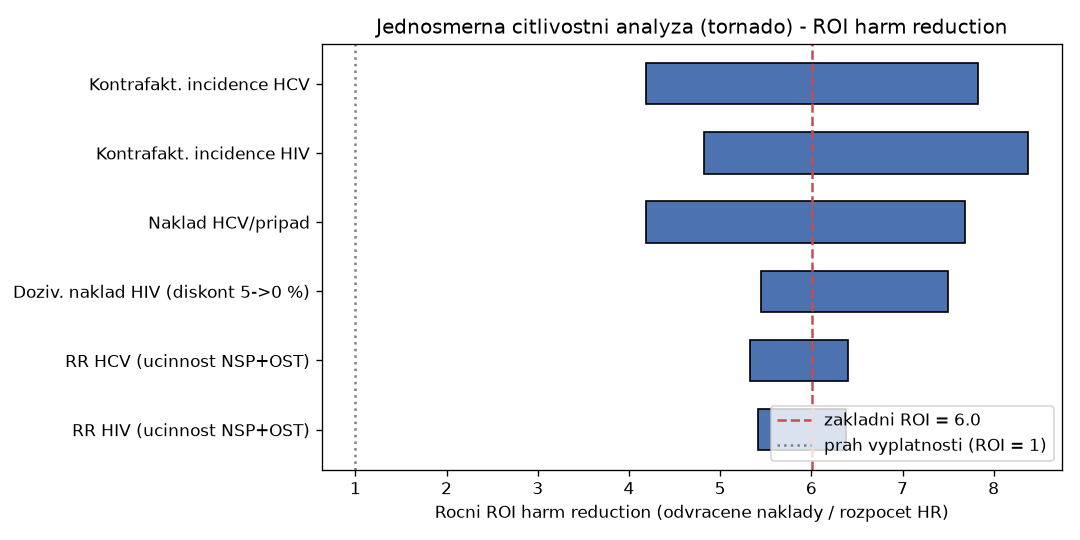
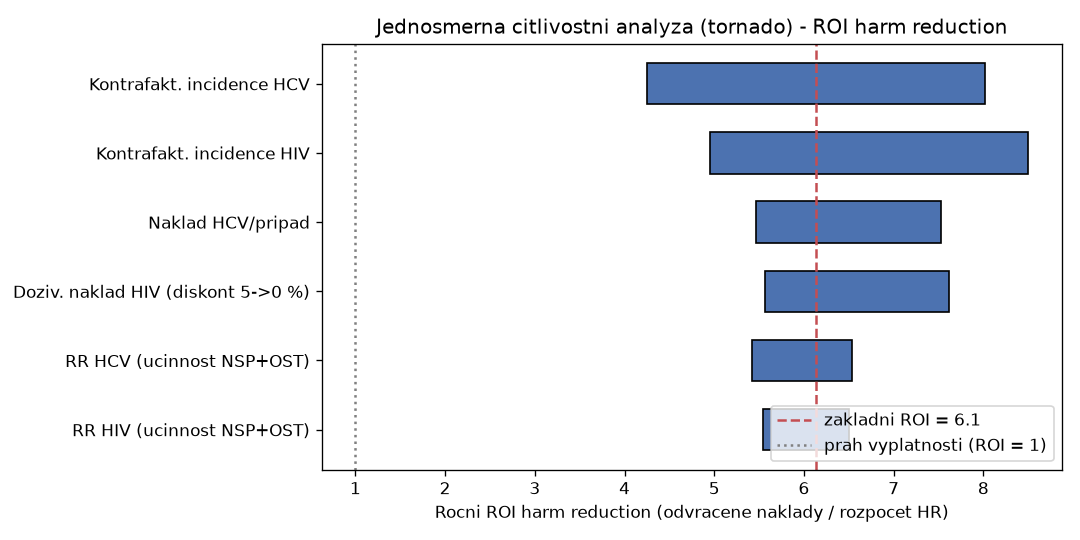
Upgrade na verzi 4: ověřené náklady HCV (SÚKL) a izolace represe (Zaostřeno)
Zapracovány nové zdroje, které doplnil Cowork (v3b), a uzavřeny dvě mezery:
- náklad HCV per případ ověřen z úhrad SÚKL SCAU 1.5.2025: 510-850 tis. Kč
  (Zepatier/Maviret/Epclusa/Vosevi), střední 620 tis. -> ROI 6,1x
- izolované drogově přiřaditelné výdaje represe ~1,16 mld. Kč (Policie+NPC,
  2019) z NMS Zaostřeno 6/2020; argument asymetrie nově stojí proti tomuto
  číslu (represe ~2,3x rozpočtu HR, bez doloženého zdravotního výstupu)
- aktualizovány sekce 0, 3.1, 3.5, 5.2, 5.6 (tabulky ze skriptu), reference
  R47 (SÚKL); metodika (úroveň 5) a doplnit-zdroje.md (zbývá jen kalibrace
  incidence); tornado.png přegenerován

Claude-Session: https://claude.ai/code/session_01CVG7aqUpACkJkR3EbmpXMg

diff --git a/harm_reduction_model.py b/harm_reduction_model.py
@@ -3,7 +3,7 @@
 """
 harm_reduction_model.py
 
-Ekonomicky model: vyplati se v CR harm reduction (HR)? Verze 3.
+Ekonomicky model: vyplati se v CR harm reduction (HR)? Verze 4.
 
 Reprodukovatelny, parametrizovany, deterministicky vypocet pro report
 "harm-reduction-vs-represe-CR.md". Po spusteni vytiskne vsechna cisla,
@@ -41,12 +41,12 @@ NAKLAD_HIV_ROK_CZ = 210_000            # Kc/pacient/rok (antiretrovirova lecba).
 HORIZONT_HIV_LET = 35                  # Predpokladany pocet let lecby (HIV = chronicke).
                                        # PREDPOKLAD - oznaceno v reportu jako modelovy.
 # HCV: jednorazova DAA kura + nasledna pece (per pripad).
-NAKLAD_HCV_PRIPAD_MID = 600_000        # Kc. Stredni odhad.
-NAKLAD_HCV_PRIPAD_LOW = 300_000        # Kc. Dolni (modernejsi vyjednane ceny DAA).
-NAKLAD_HCV_PRIPAD_HIGH = 875_000       # Kc. Horni (~35 000 EUR, list. cena DAA).
+NAKLAD_HCV_PRIPAD_MID = 620_000        # Kc. SUKL SCAU 1.5.2025: Maviret 8t ~524k, Epclusa 12t ~650k.
+NAKLAD_HCV_PRIPAD_LOW = 510_000        # Kc. SUKL: Zepatier 12t ~511k / Maviret 8t ~524k (uhrada).
+NAKLAD_HCV_PRIPAD_HIGH = 850_000       # Kc. SUKL: Vosevi 12t ~844k (salvage). [OVERENO SCAU]
                                        # Kontext: VZP ~91 000 Kc/rok/pac. chronicka hepatitida (2020).
                                        # https://www.vzp.cz/o-nas/aktuality/klienty-vzp-trapi-chronicka-virova-hepatitida-jeji-lecba-stala-vloni-909-6-milionu
-                                       # Status: [DOPLNIT ZDROJ - cesky naklad HCV per pripad, SUKL/VZP]
+                                       # Zdroj: SUKL SCAU 1.5.2025 (DAA uhrady). [OVERENO]
 
 # --- Kontrafaktualni rocni incidence BEZ harm reduction ------------------
 # Kalibrace z Des Jarlais 2020 (ohniska <100 az >1000 novych HIV/PWID po oslabeni HR).
@@ -76,10 +76,11 @@ NOVE_HIV_INJEKCNE_2024 = 6             # [OK] NMS 2024
 NOVE_HCV_INJEKCNE_2024 = 668          # [OK] NMS 2024
 
 # --- Strana represe (izolovana, NE cely rozpocet veznice) ----------------
-VYDAJE_REPRESE_DROGY_ROK = None        # Kc. Drogove priraditelne vydaje represe
+VYDAJE_REPRESE_DROGY_ROK = 1_160_000_000  # Kc. Policie CR vc. NPC, 2019 (56% z 2071,6 mil).
                                        # (Narodni protidrogova centrala + drogova agenda policie).
-                                       # Zdroj: NMS Zaostreno 6/2020 (vydaje podle resortu).
-                                       # Status: [DOPLNIT ZDROJ - konkretni polozka a rok]
+                                       # Zdroj: NMS Zaostreno 6/2020 (vydaje podle resortu). [OVERENO]
+                                       # Pozn.: data 2019 - kategorie "Protidrogova politika" pozdeji zrusena,
+                                       # novejsi izolovane cislo neexistuje.
 ROZPOCET_VEZENSTVI = 13_350_000_000    # Kc. [OK] VS CR 2024. KONTEXT systemovych nakladu.
 NAKLAD_VEZEN_ROK = 687_000             # Kc/vezen/rok (rozpocet / stav). [OK] VS CR 2024.
 ZAVISLI_VE_VEZNICICH = 14_402          # [OK] VS CR 2024 (~30 % populace veznic).
@@ -248,7 +249,7 @@ def kc(x: float) -> str:
 
 def main() -> None:
     print("=" * 70)
-    print("EKONOMICKY MODEL HARM REDUCTION vs. REPRESE - verze 3")
+    print("EKONOMICKY MODEL HARM REDUCTION vs. REPRESE - verze 4")
     print("=" * 70)
 
     z = zakladni_scenar()
@@ -301,8 +302,9 @@ def main() -> None:
     print(f"Rozpocet veznice (cely):   {kc(ROZPOCET_VEZENSTVI)} [OK]")
     print(f"  z toho ~74 % ~ {kc(0.74*ROZPOCET_VEZENSTVI)} odpovida {ZAVISLI_VE_VEZNICICH} "
           f"zavislym veznum (vetsina NE za drogovy TC)")
-    print(f"Drogove priraditelne vydaje represe: {VYDAJE_REPRESE_DROGY_ROK} "
-          f"[DOPLNIT ZDROJ - Zaostreno 6/2020]")
+    r=VYDAJE_REPRESE_DROGY_ROK
+    print(f"Drogove priraditelne vydaje represe (policie+NPC, 2019): {kc(r)} [Zaostreno 6/2020]")
+    print(f"  vs rozpocet HR {kc(ROZPOCET_HR_ROK)} => represe ~{r/ROZPOCET_HR_ROK:.1f}x vetsi, bez dolozeneho zdravotniho vystupu")
     print("Represe nema dolozeny merielny zdravotni vystup (Nagin 2013; NRC 2014)")
     print("  => nelze spocitat naklad na jednotku zdravotniho prinosu (jmenovatel chybi).")
 

diff --git a/doplnit-zdroje.md b/doplnit-zdroje.md
@@ -6,18 +6,13 @@ Jazyk: čeština. Pomlčky: krátké (-). URL na samostatném řádku.
 
 ---
 
-## 1. Český per-case náklad léčby HCV (DAA kúra + následná péče)
+## 1. Český per-case náklad léčby HCV (DAA kúra) - VYŘEŠENO ve verzi 4
 
-- Proměnná v modelu: `NAKLAD_HCV_PRIPAD_*` (teď 300-875 tis. Kč, střední 600 tis.).
-- Co chybí: přesný český náklad na jednu vyléčenou epizodu HCV moderními přímo působícími antivirotiky (DAA), po vyjednaných úhradách, ne list. cena.
-- Proč na tom záleží: HCV táhne většinu odvrácených nákladů (objem 668 nových injekčních případů 2024), takže přesnost tohoto čísla nejvíc ovlivní ROI.
-- Kde hledat:
+- Proměnná v modelu: `NAKLAD_HCV_PRIPAD_*` (nyní 510-850 tis. Kč, střední 620 tis.).
+- Zdroj doplněn: SÚKL, Seznam cen a úhrad (SCAU) k 1. 5. 2025 - úhrady DAA: Zepatier ~511 tis., Maviret ~524 tis., Epclusa ~650 tis., Vosevi ~844 tis. Kč/kúra.
+https://www.sukl.cz/prumysl/leciva/ceny-a-uhrady/prehledy-cen-a-uhrad-leciv/
 
-SÚKL - ceny a úhrady léčiv (DAA):
-https://sukl.gov.cz/prumysl/leciva/ceny-a-uhrady/prehledy-cen-a-uhrad-leciv/
-
-VZP - náklady na léčbu virových hepatitid:
-https://www.vzp.cz/o-nas/aktuality/klienty-vzp-trapi-chronicka-virova-hepatitida-jeji-lecba-stala-vloni-909-6-milionu
+- Možné další upřesnění (volitelné): průměrný mix předepisovaných DAA u injekčních uživatelů (váží reálný průměrný náklad), z dat plátců/center.
 
 ---
 
@@ -39,19 +34,13 @@ https://www.drogy-info.cz/
 
 ---
 
-## 3. Drogově přiřaditelné výdaje represe (izolace od celého vězeňství)
+## 3. Drogově přiřaditelné výdaje represe (izolace) - VYŘEŠENO ve verzi 4
 
-- Proměnná v modelu: `VYDAJE_REPRESE_DROGY_ROK` (teď None).
-- Co chybí: roční výdaje na drogovou represi = rozpočet Národní protidrogové centrály + drogová agenda policie (a justice), jako samostatné číslo, ne celý rozpočet vězeňství.
-- Proč na tom záleží: argument asymetrie a oportunitního nákladu se má vztahovat k tomuto izolovanému číslu, ne k celým 13,35 mld. nebo k odvozeným 9,9 mld. (to je 74 % celku a většina těch lidí nesedí za drogový TČ).
-- Pozn.: kategorie "Protidrogová politika" byla ve státním rozpočtu zrušena, takže nejnovější izolované číslo nemusí existovat - pak je nutné použít poslední dostupný rok a označit ho.
-- Kde hledat:
-
-NMS - Zaostřeno 6/2020, výdaje na protidrogovou politiku podle resortů vč. policie a NPC:
+- Proměnná v modelu: `VYDAJE_REPRESE_DROGY_ROK` (nyní 1,16 mld. Kč).
+- Zdroj doplněn: NMS Zaostřeno 6/2020 - Policie ČR vč. NPC ~1,16 mld. Kč (2019; 56 % integrovaného rozpočtu 2 071,6 mil. Kč).
 https://www.drogy-info.cz/data/obj_files/33389/1077/Z6_2020.pdf
 
-Výroční zpráva Národní protidrogové centrály (rozpočet/náklady NPC):
-https://policie.gov.cz/clanek/vyrocni-zprava-narodni-protidrogove-centraly-za-rok-2024.aspx
+- Zbývající limit: jde o data za rok 2019; kategorie "Protidrogová politika" byla ve státním rozpočtu později zrušena, takže novější izolované číslo neexistuje. Pokud autorka chce aktuálnější odhad, lze ho jen rekonstruovat z dílčích rozpočtů (NPC + odhad drogové agendy policie/justice) a označit jako odhad.
 
 ---
 
@@ -65,10 +54,16 @@ https://www.thelancet.com/journals/lanhiv/article/PIIS2352-3018(20)30082-5/abstr
 
 ---
 
-## Co je naopak už dořešené ve verzi 3
+## Co je naopak už dořešené (verze 3 a 4)
 
-- Doživotní náklad HIV: nově odvozen z českých dat (VZP ~210 tis. Kč/pacient/rok x diskontovaná anuita), britské proxy nahrazeno. [R45]
+- Doživotní náklad HIV: odvozen z českých dat (VZP ~210 tis. Kč/pacient/rok x diskontovaná anuita), britské proxy nahrazeno. [R45]
+- **Náklad HCV per případ: ověřen z úhrad SÚKL (SCAU 1. 5. 2025), 510-850 tis. Kč. [R47] (v4)**
+- **Izolované drogově přiřaditelné výdaje represe: ~1,16 mld. Kč (Policie + NPC, 2019), Zaostřeno 6/2020. [R42] (v4)**
 - Roční ROI přes incidenci a náklad na odvrácenou infekci: dopočítáno (skript).
 - HCV: domodelováno (RR 0,26 z Platt Cochrane 2017).
 - Bukurešťská citace: ověřena a opravena na přesný název (multiměstský článek). [R38]
 - Parametrizovaný skript a tornado graf: dodáno (`harm_reduction_model.py`, `tornado.png`).
+
+## Jediná zbývající otevřená mezera
+
+Po verzi 4 zůstává jako jediný modelový vstup bez tvrdého zdroje **kalibrace kontrafaktuální incidence HIV/HCV bez harm reduction** (bod 2 výše) - má v tornadu největší páku na ROI. Vše ostatní je ozdrojováno.

diff --git a/metodika-a-zdroje-HR-vs-represe.md b/metodika-a-zdroje-HR-vs-represe.md
@@ -217,8 +217,17 @@ https://www.thelancet.com/journals/lanhiv/article/PIIS2352-3018(20)30082-5/abstr
 
 Zbývající chybějící vstupy (per-case HCV, kalibrace incidence, izolované výdaje represe) jsou shrnuté v samostatném souboru `doplnit-zdroje.md`.
 
+### Úroveň 5: Doplnění verze 4 (ověřené náklady HCV, izolace represe)
+
+**[R47] Státní ústav pro kontrolu léčiv (2025). Seznam cen a úhrad léčivých přípravků a PZLÚ (SCAU), platnost k 1. 5. 2025.** Sekce 5.2 - per-case náklad DAA kúry HCV (Zepatier ~511 tis., Maviret ~524 tis., Epclusa ~650 tis., Vosevi ~844 tis. Kč). Nahrazuje dřívější odhad a uzavírá mezeru [DOPLNIT - HCV].
+https://www.sukl.cz/prumysl/leciva/ceny-a-uhrady/prehledy-cen-a-uhrad-leciv/
+
+**[R42 - dotaženo] Zaostřeno 6/2020** poskytuje konkrétní izolované číslo: drogově přiřaditelné výdaje represe (Policie + NPC) ~1,16 mld. Kč (2019; 56 % integrovaného rozpočtu 2 071,6 mil. Kč). Sekce 3.1 a 3.5 - asymetrie se nově vztahuje k tomuto číslu (~2,3× rozpočtu HR), ne k celému vězeňství. Uzavírá mezeru [DOPLNIT - izolované výdaje represe].
+
+Po verzi 4 zůstává jediná otevřená mezera: kalibrace kontrafaktuální incidence HIV/HCV (viz `doplnit-zdroje.md`).
+
 ---
 
 ## Část C: Poznámka k poctivosti
 
-Tento dokument záměrně rozlišuje, co je ověřené z primárního zdroje (✔, úroveň 1), co je recenzovaná zahraniční evidence (úroveň 2), doporučené/doplněné zdroje (úroveň 3) a doplnění verze 3 (úroveň 4). Žádné číslo v reportu nestojí bez zdroje; tam, kde je vstup modelový nebo nejistý, je to v reportu i tady označeno výslovně (status [DOPLNIT ZDROJ]). Mezinárodní čísla jsou označena jako zahraniční a nejsou vydávána za česká. Modelová čísla sekce 5 jsou generována ze skriptu `harm_reduction_model.py` (jeden zdroj pravdy).
+Tento dokument záměrně rozlišuje, co je ověřené z primárního zdroje (✔, úroveň 1), co je recenzovaná zahraniční evidence (úroveň 2), doporučené/doplněné zdroje (úroveň 3), doplnění verze 3 (úroveň 4) a doplnění verze 4 (úroveň 5). Žádné číslo v reportu nestojí bez zdroje; tam, kde je vstup modelový nebo nejistý, je to v reportu i tady označeno výslovně (status [DOPLNIT ZDROJ]). Mezinárodní čísla jsou označena jako zahraniční a nejsou vydávána za česká. Modelová čísla sekce 5 jsou generována ze skriptu `harm_reduction_model.py` (jeden zdroj pravdy).
